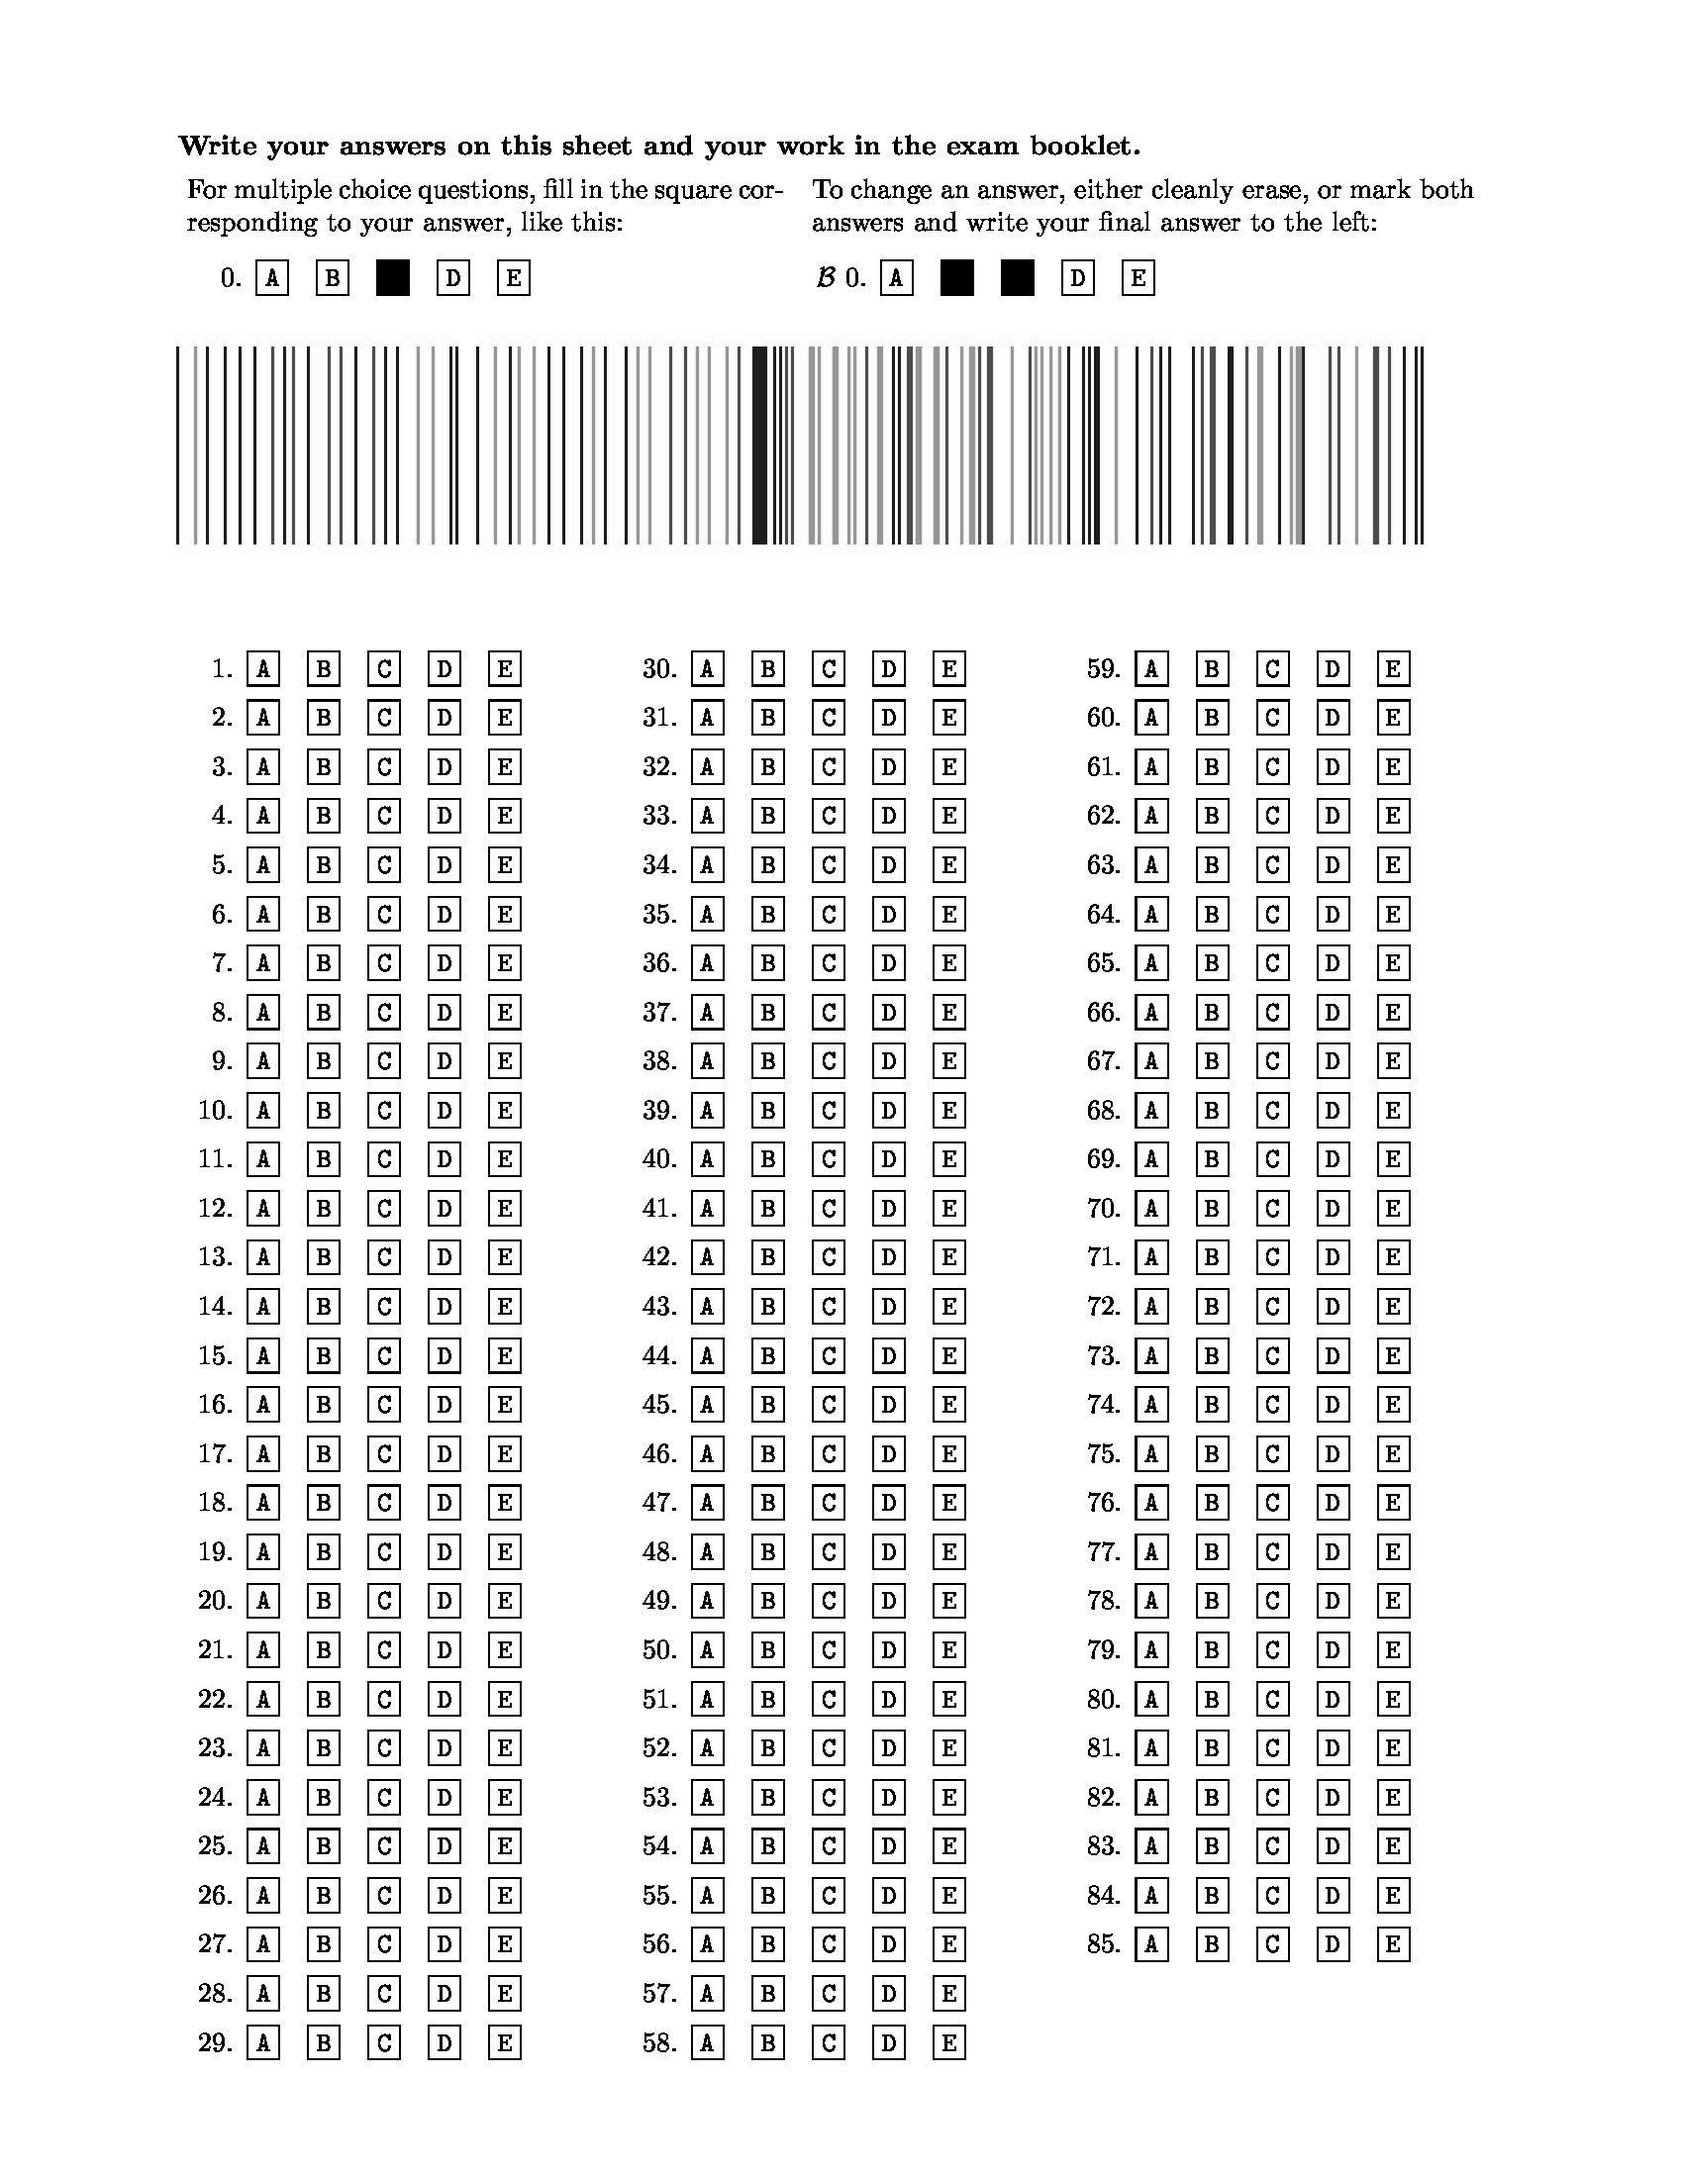
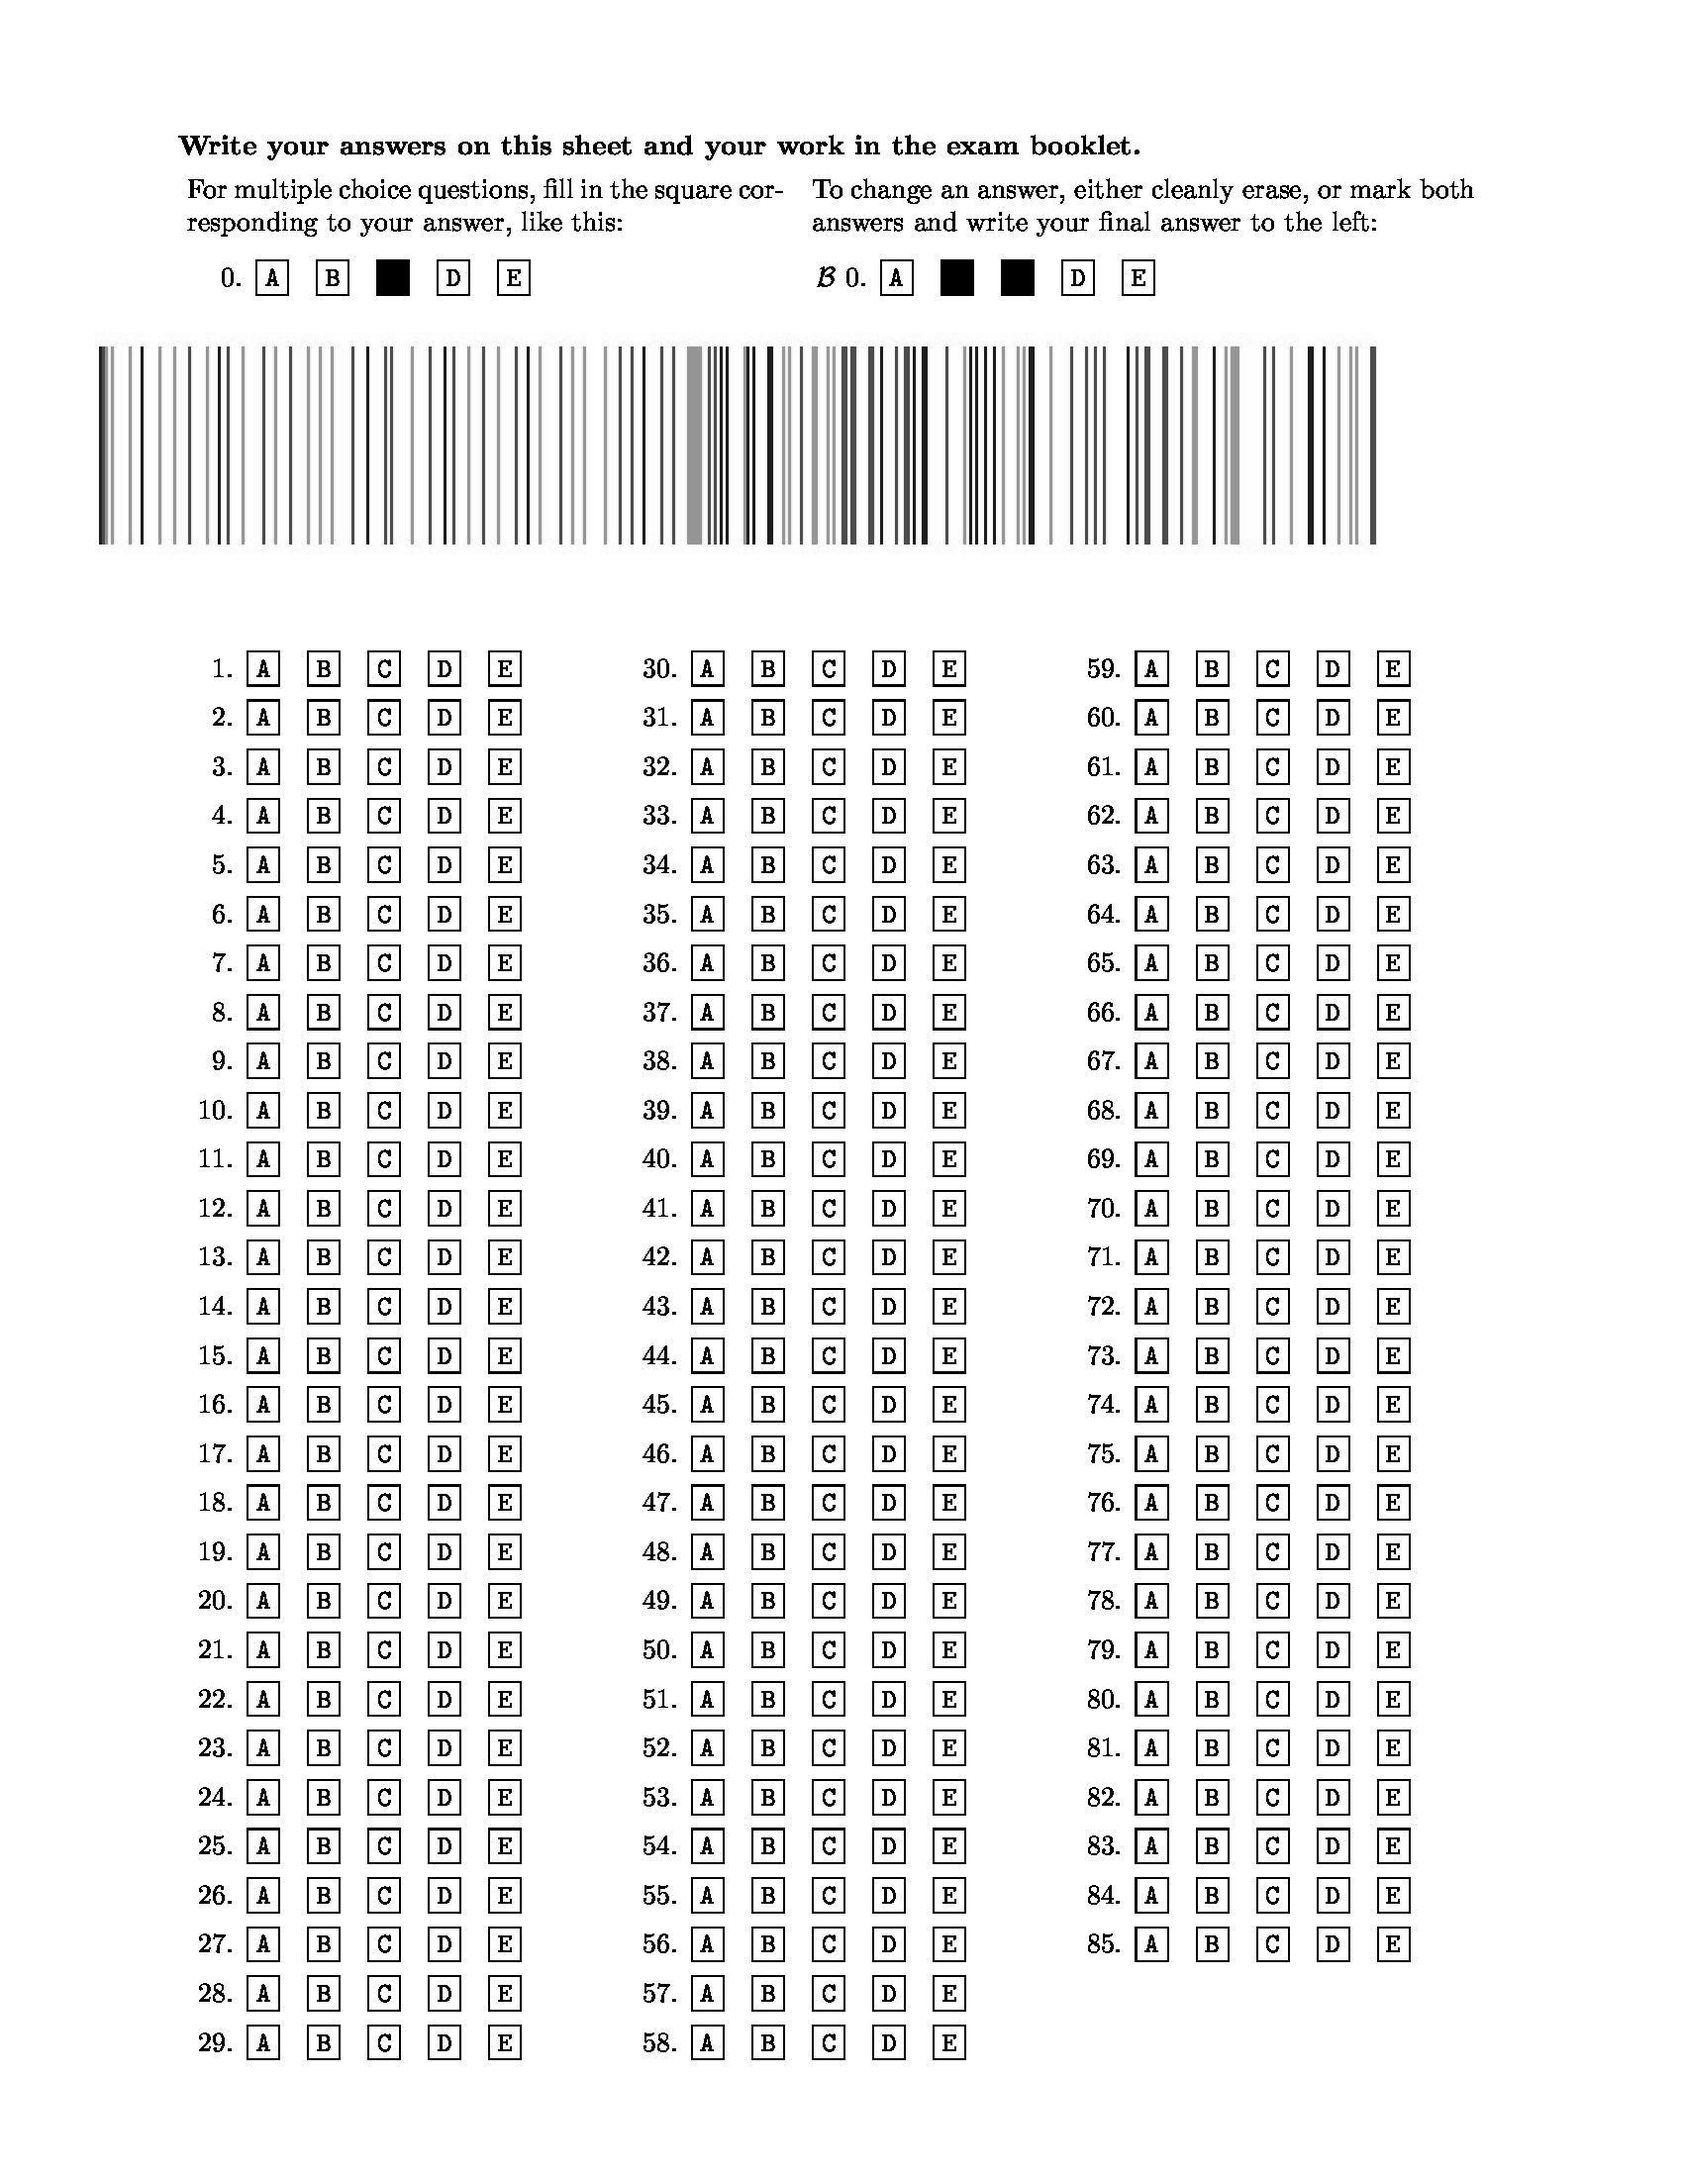
Done with inject

Changed region(s): [[0.0312, 0.1545, 0.8418, 0.2473]]

diff --git a/extract.py b/extract.py
@@ -22,3 +22,105 @@
 
 import sys
 import PIL
+
+
+
+import sys
+import PIL
+import cProfile
+from PIL import Image, ImageFilter
+from pprint import pprint
+from timeit import timeit
+import math
+from random import choice
+from operator import itemgetter
+
+def get_answers(answers_file):
+    answers = {}
+    with open(answers_file, 'r') as file:
+        for line in file:
+            question, truth = int(line.split()[0]), line.split()[1]
+            answers[question] = {}
+            for option in 'ABCDE':
+                if option in truth:
+                    answers[question][option] = True
+                else:
+                    answers[question][option] = False
+    return answers
+
+def print_barcode(answers,px):
+    # Will print a muti-colored barcode with each answer.  added color to imply
+    # meaning, no actual meaning, just to throw students off
+    color_options = [(255,0,0),(0,255,0),(0,0,255)] # rgb
+    
+    #starting position
+    x, y = 100,350
+    white = (255,255,255)
+    options = list('ABCDE')
+    bar_width = 3
+
+    # Add leading element so we know barcode begins
+    # this spacer tells it to ignore the first 5 symbols it picks up.
+    # unless you know this, the answers will not make sense
+    # for each test, this could be unique
+    spacer = 3 
+    for space in range(spacer):
+        color = choice(color_options)
+        for i in range(bar_width):
+            for j in range(200):
+                px[x+i,y+j] = color
+        x += bar_width
+    
+    # encode answers
+    for question in range(1,len(answers)+1):
+        color = choice(color_options)
+        for letter in options:
+            for i in range(bar_width):
+                for j in range(200):
+                    if answers[question][letter] == True:  
+                        px[x+i,y+j] = color
+                    else:
+                        px[x+i,y+j] = white
+            x += bar_width
+
+    # end bar, similarily this could be unique
+    spacer = 2 
+    for space in range(spacer):
+        color = choice(color_options)
+        for i in range(bar_width):
+            for j in range(200):
+                px[x+i,y+j] = color
+        x += bar_width
+        
+    print x
+
+def inject(form, answers_file, injected_im):
+    # import answers
+    answers = get_answers(answers_file)
+    
+    # import form
+    im = Image.open(form).convert('RGB')
+    px = im.load()
+    width, height = im.width, im.height
+
+    # print barcode
+    print_barcode(answers,px)
+    
+    #output file
+    im.save(injected_im)
+    
+    print("Barcode successfully outputted to '"+injected_im+"'.  Happy Test Taking!")
+    
+    im2 = Image.open(injected_im).convert('L')
+    im2.save("bw-"+injected_im)
+    
+################################################################################
+# Run program
+################################################################################
+
+# Load command line inputs
+injected_im, output_txt = sys.argv[1:]
+
+# Inject form
+# cProfile.run("extract(injected_im, output_txt)")
+extract(injected_im, output_txt)

diff --git a/inject.py b/inject.py
@@ -41,7 +41,6 @@ def get_answers(answers_file):
                     answers[question][option] = True
                 else:
                     answers[question][option] = False
-
     return answers
 
 def print_barcode(answers,px):
@@ -50,22 +49,43 @@ def print_barcode(answers,px):
     color_options = [(255,0,0),(0,255,0),(0,0,255)] # rgb
     
     #starting position
-    x, y = 175,350
-
+    x, y = 100,350
     white = (255,255,255)
     options = list('ABCDE')
+    bar_width = 3
+
+    # Add leading element so we know barcode begins
+    # this spacer tells it to ignore the first 5 symbols it picks up.
+    # unless you know this, the answers will not make sense
+    # for each test, this could be unique
+    front_spacer = 3 
+    for space in range(front_spacer):
+        color = choice(color_options)
+        for i in range(bar_width):
+            for j in range(200):
+                px[x+i,y+j] = color
+        x += bar_width
+    
+    # encode answers
     for question in range(1,len(answers)+1):
         color = choice(color_options)
         for letter in options:
-            for i in range(3):
+            for i in range(bar_width):
                 for j in range(200):
                     if answers[question][letter] == True:  
-                        # print("color")
                         px[x+i,y+j] = color
                     else:
-                        # print("white")
                         px[x+i,y+j] = white
-            x += 3
+            x += bar_width
+
+    # end bar, similarily this could be unique
+    rear_spacer = 2 
+    for space in range(rear_spacer):
+        color = choice(color_options)
+        for i in range(bar_width):
+            for j in range(200):
+                px[x+i,y+j] = color
+        x += bar_width
 
 def inject(form, answers_file, injected_im):
     # import answers
@@ -82,8 +102,8 @@ def inject(form, answers_file, injected_im):
     #output file
     im.save(injected_im)
     
-    im2 = Image.open(injected_im).convert('L')
-    im2.save("bw-"+injected_im)
+    print("Barcode successfully injected into '"+injected_im+"'.  Happy Test Taking!")
+
     
 ################################################################################
 # Run program
